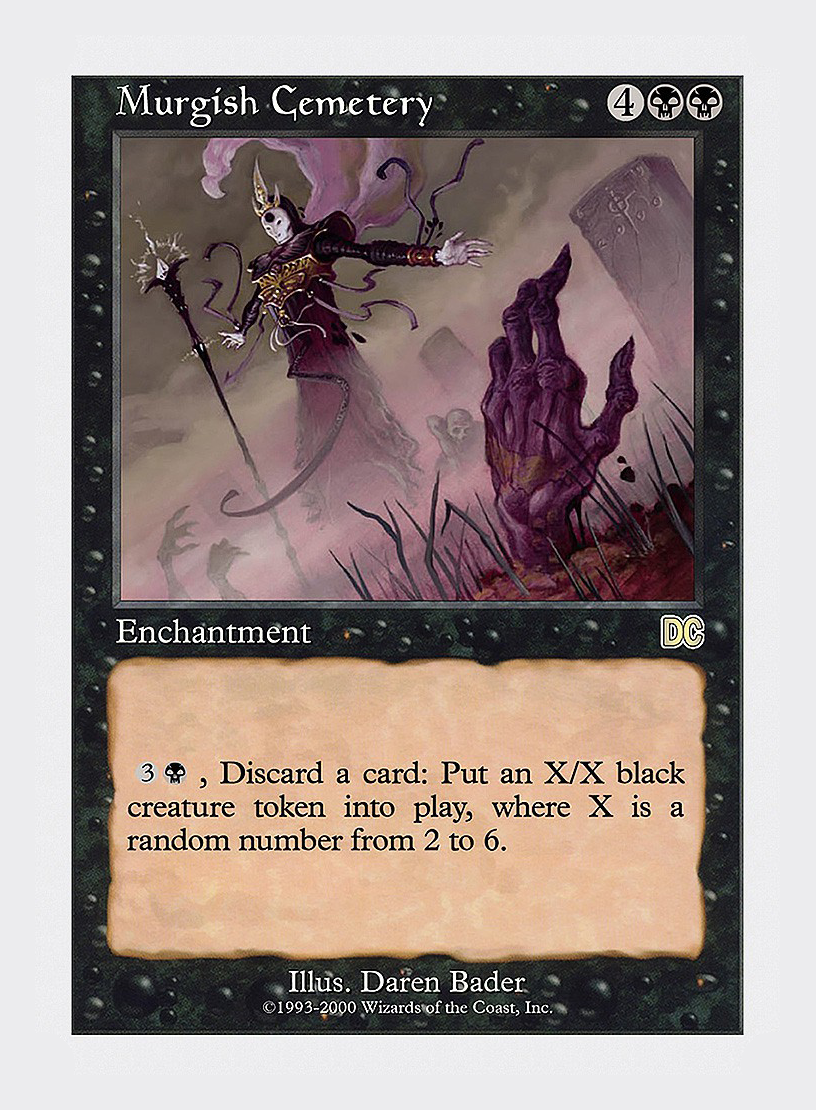
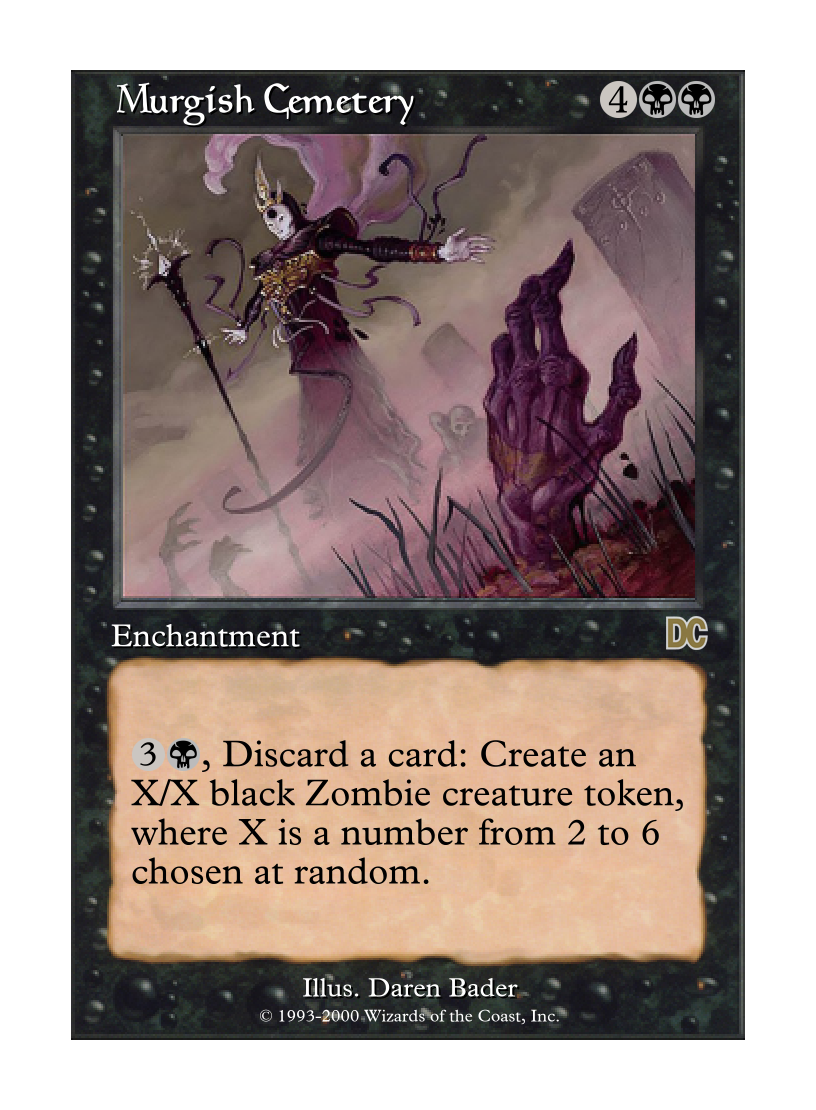
fix Arrest and Murgish Cemetery

diff --git a/TODO.md b/TODO.md
@@ -3,13 +3,3 @@
 - Discord, Lord of Harmony
 - M'Odo, Gnarled Oracle
 - Pool of Vigorous Growth
-
-## Fix cards
-
-- PMOA: _Arrest token_ should have its mana cost in its reminder text.
-- PSDG: _Murgish Cemetery_ should specify the token creature type, Zombie.
-
-## Create tokens
-
-- Create more
-  [legendary dogs](https://scryfall.com/search?q=set%3Asld+art%3Adog&unique=art).
